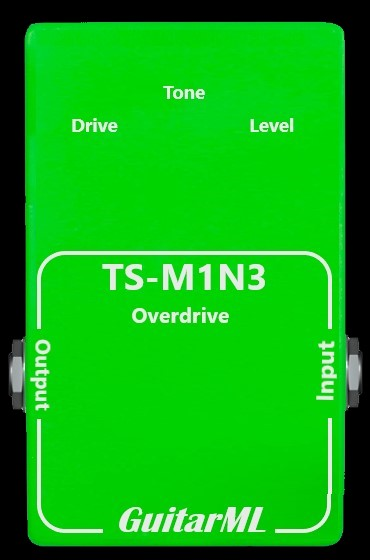
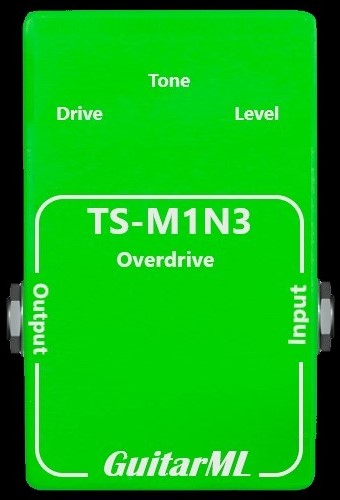
GUI updates

diff --git a/Source/PluginProcessor.cpp b/Source/PluginProcessor.cpp
@@ -109,9 +109,9 @@ void TSM1N3AudioProcessor::prepareToPlay (double sampleRate, int samplesPerBlock
     LSTM.reset();
 
     // set up DC blocker
-    dcBlocker.coefficients = dsp::IIR::Coefficients<float>::makeHighPass(sampleRate, 35.0f);
-    dsp::ProcessSpec spec{ sampleRate, static_cast<uint32> (samplesPerBlock), 2 };
-    dcBlocker.prepare(spec);
+    //dcBlocker.coefficients = dsp::IIR::Coefficients<float>::makeHighPass(sampleRate, 35.0f);
+    //dsp::ProcessSpec spec{ sampleRate, static_cast<uint32> (samplesPerBlock), 2 };
+    //dcBlocker.prepare(spec);
 }
 
 void TSM1N3AudioProcessor::releaseResources()
@@ -174,8 +174,8 @@ void TSM1N3AudioProcessor::processBlock (AudioBuffer<float>& buffer, MidiBuffer&
     }
 
     // process DC blocker
-    auto monoBlock = dsp::AudioBlock<float>(buffer).getSingleChannelBlock(0);
-    dcBlocker.process(dsp::ProcessContextReplacing<float>(monoBlock));
+    //auto monoBlock = dsp::AudioBlock<float>(buffer).getSingleChannelBlock(0);
+    //dcBlocker.process(dsp::ProcessContextReplacing<float>(monoBlock));
     
     for (int ch = 1; ch < buffer.getNumChannels(); ++ch)
         buffer.copyFrom(ch, 0, buffer, 0, 0, buffer.getNumSamples());
@@ -238,11 +238,10 @@ void TSM1N3AudioProcessor::loadConfig()
     
     LSTM.load_json3(weights_json);
 
-
     this->suspendProcessing(false);
 }
 
-
+/* // UNUSED but kept as a template for future plugins
 float TSM1N3AudioProcessor::convertLogScale(float in_value, float x_min, float x_max, float y_min, float y_max)
 {
     float b = log(y_max / y_min) / (x_max - x_min);
@@ -250,7 +249,7 @@ float TSM1N3AudioProcessor::convertLogScale(float in_value, float x_min, float x
     float converted_value = a * exp(b * in_value);
     return converted_value;
 }
-
+*/
 
 float TSM1N3AudioProcessor::decibelToLinear(float dbValue)
 {

diff --git a/Source/PluginProcessor.h b/Source/PluginProcessor.h
@@ -17,17 +17,13 @@
 
 #define GAIN_ID "gain"
 #define GAIN_NAME "Gain"
-
 #define MASTER_ID "master"
 #define MASTER_NAME "Master"
-
 #define TONE_ID "tone"
 #define TONE_NAME "Tone"
 
 
 //==============================================================================
-/**
-*/
 class TSM1N3AudioProcessor  : public AudioProcessor
 {
 public:
@@ -68,7 +64,7 @@ public:
     void getStateInformation (MemoryBlock& destData) override;
     void setStateInformation (const void* data, int sizeInBytes) override;
     
-    float convertLogScale(float in_value, float x_min, float x_max, float y_min, float y_max);
+    //float convertLogScale(float in_value, float x_min, float x_max, float y_min, float y_max);
 
     float decibelToLinear(float dbValue);
 
@@ -84,27 +80,17 @@ public:
     float toneValue = 0.5;
     float masterValue = 0.5;
 
-    File loaded_tone;
-    juce::String loaded_tone_name;
-    const char* char_filename = "";
-
-    bool lstm_state = true;
-
-    juce::String loaded_ir_name;
+    bool lstm_state = true;;
 
     RT_LSTM LSTM;
 
     AudioProcessorValueTreeState treeState;
 
-    const char* jsonFile = "C:\\Users\\rache\\Desktop\\dev\\TS-M1N3\\models\\model_ts9_cond2.json";
-
     int currentSampleRate = 44100;
 
 private:
-    var dummyVar;
-
-
-    dsp::IIR::Filter<float> dcBlocker;
+    //var dummyVar;
+    //dsp::IIR::Filter<float> dcBlocker;
 
     //==============================================================================
     JUCE_DECLARE_NON_COPYABLE_WITH_LEAK_DETECTOR (TSM1N3AudioProcessor)

diff --git a/Source/PluginEditor.cpp b/Source/PluginEditor.cpp
@@ -75,7 +75,7 @@ TSM1N3AudioProcessorEditor::TSM1N3AudioProcessorEditor (TSM1N3AudioProcessor& p)
     ampMasterKnob.setDoubleClickReturnValue(true, -18.0);
 
     // Size of plugin GUI
-    setSize(370, 560);
+    setSize(340, 500);
     resetImages();
 }
 
@@ -106,24 +106,26 @@ void TSM1N3AudioProcessorEditor::resized()
     // subcomponents in your editor..
 
     // Amp Widgets
-    ampGainKnob.setBounds(32, 22, 125, 95);
-    ampMasterKnob.setBounds(214, 22, 125, 95);
-    ampToneKnob.setBounds(125, 105, 125, 95);
+    ampGainKnob.setBounds(20, 13, 125, 95);
+    ampMasterKnob.setBounds(196, 13, 125, 95);
+    ampToneKnob.setBounds(110, 91, 125, 95);
 
-    odLED.setBounds(169, 350, 40, 40);
-    odFootSw.setBounds(150, 400, 80, 80);
+    odLED.setBounds(152, 315, 40, 40);
+    odFootSw.setBounds(133, 365, 80, 80);
 }
 
 
 
 void TSM1N3AudioProcessorEditor::buttonClicked(juce::Button* button)
 {
-    if (processor.fw_state == 0)
-        processor.fw_state = 1;
-    else
-        processor.fw_state = 0;
+    if (button == &odFootSw) {
+        if (processor.fw_state == 0)
+            processor.fw_state = 1;
+        else
+            processor.fw_state = 0;
 
-    resetImages();
+        resetImages();
+    }
 }
 
 
